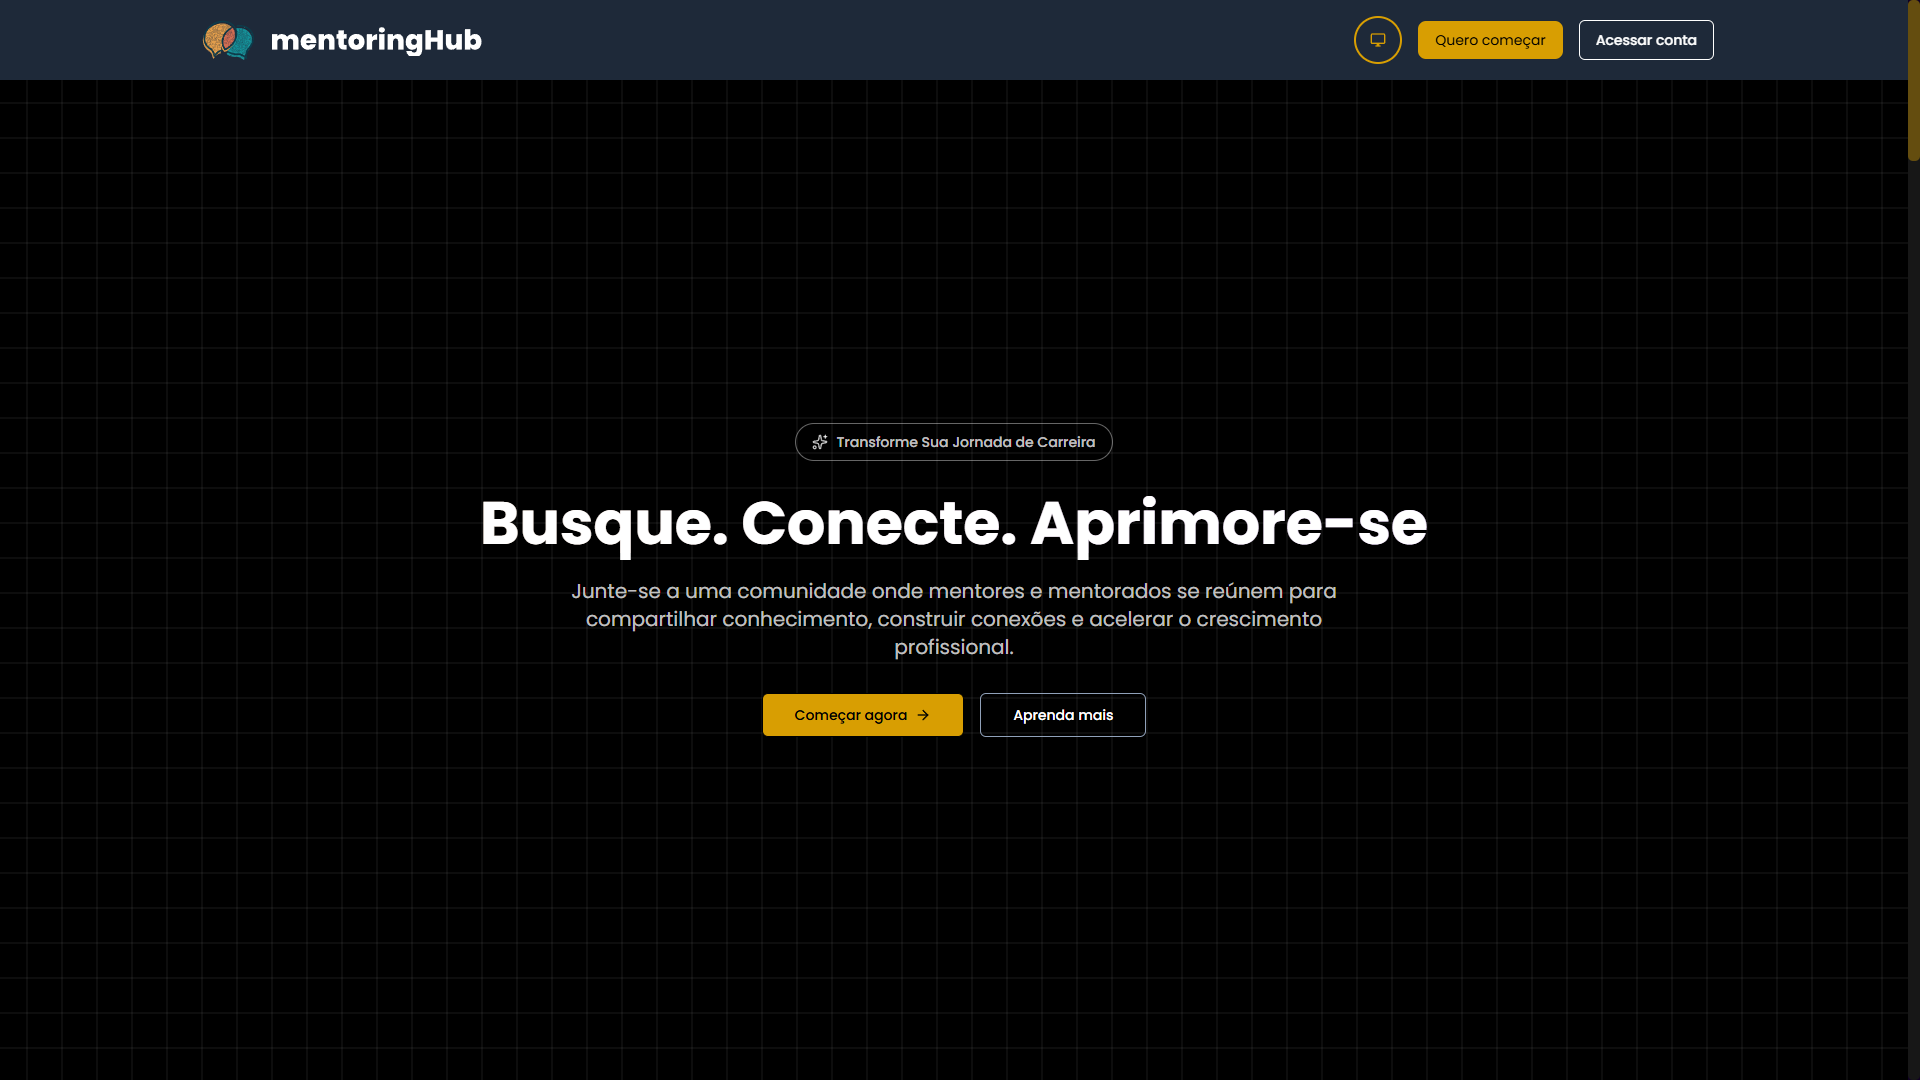
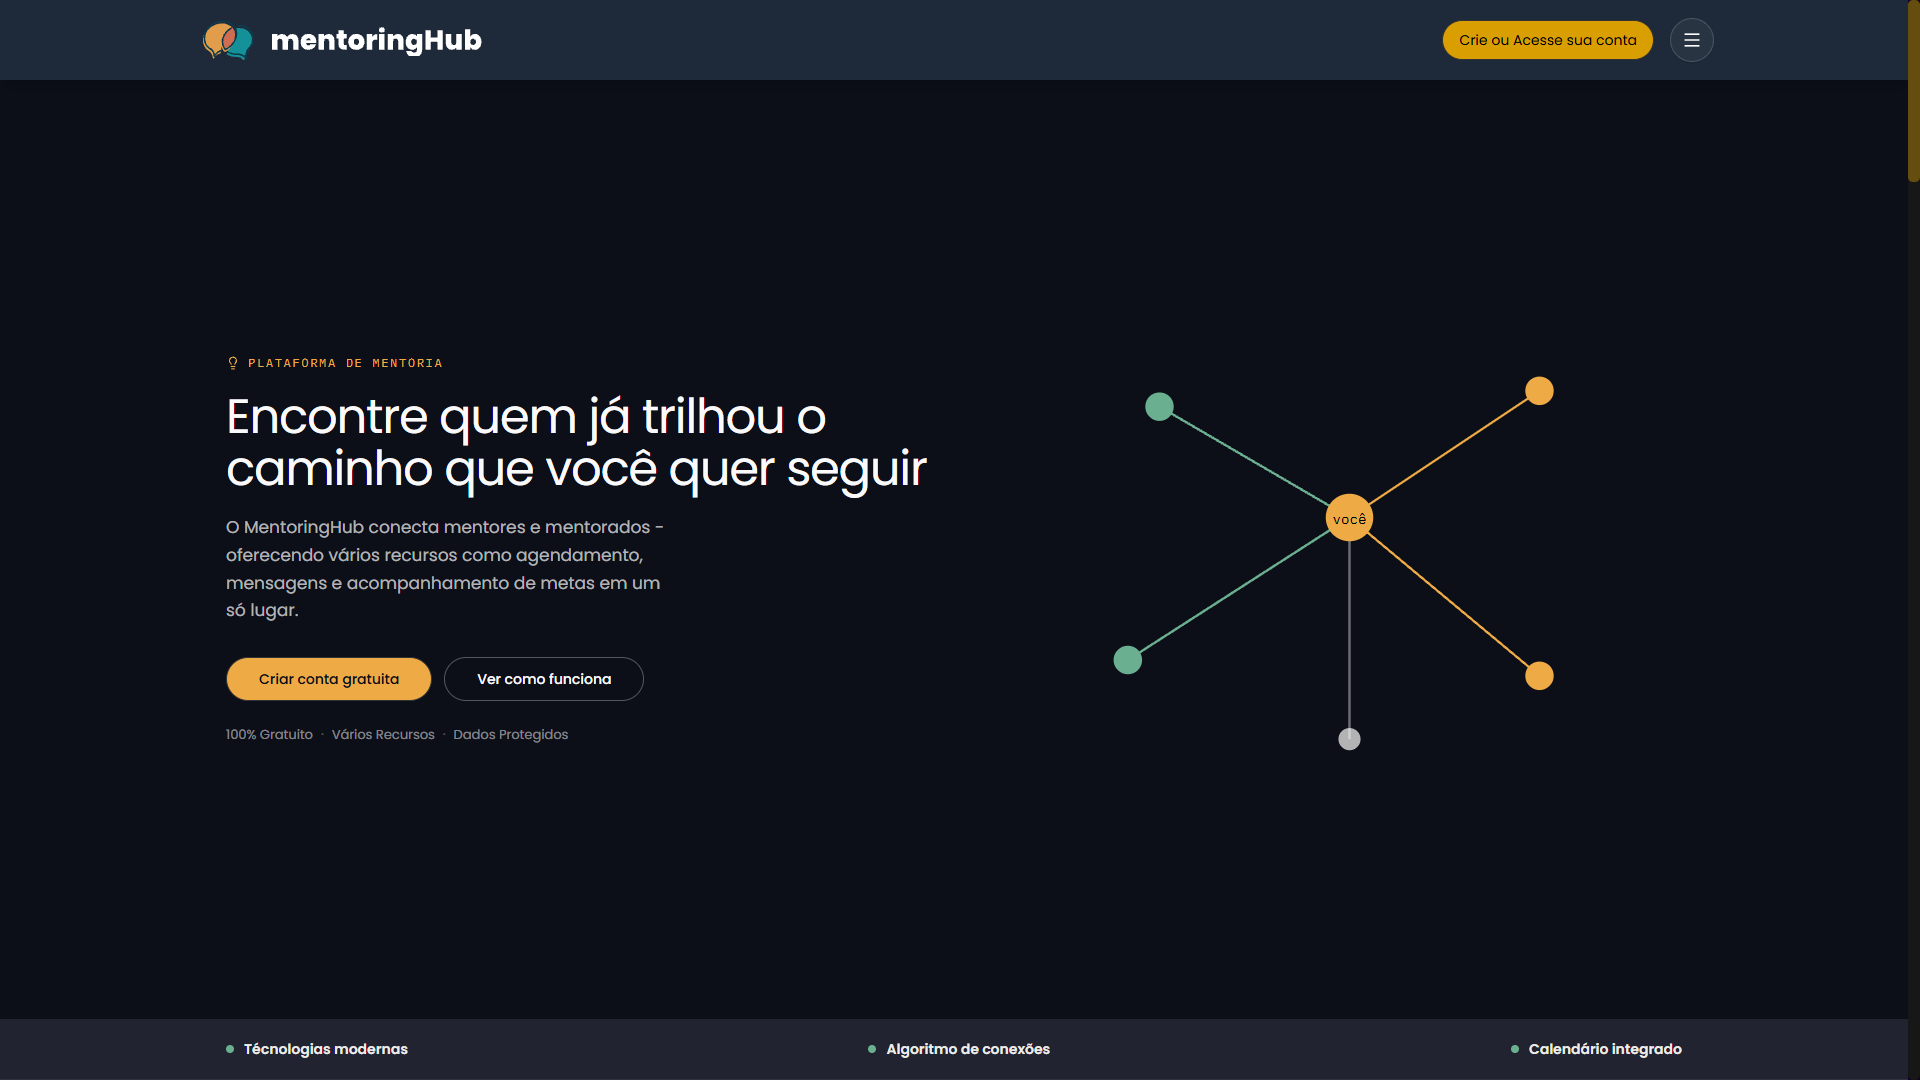
update: job status and experience

diff --git a/src/data/AboutPageList.ts b/src/data/AboutPageList.ts
@@ -67,8 +67,8 @@ export const WorkExperienceList = {
     },
     areas: [
       {
-        en: 'System Development',
-        pt: 'Desenvolvimento de Sistemas',
+        en: 'Systems Analysis and Development',
+        pt: 'Análise e Desenvolvimento de Sistemas',
       },
     ],
   },
@@ -426,6 +426,44 @@ export const WorkExperienceList = {
         {
           en: 'Creating test cases and performing tests to ensure the quality of the product',
           pt: 'Criar casos de teste e realizar testes para garantir a qualidade do produto',
+        },
+      ],
+    },
+    {
+      position: {
+        en: 'Systems Analyst and Developer',
+        pt: 'Analista de sistemas e Desenvolvedor',
+      },
+      company: {
+        en: 'Soluções UP',
+        pt: 'Soluções UP',
+      },
+      location: {
+        en: 'Boa Vista, Brazil',
+        pt: 'Boa Vista, Brasil',
+      },
+      period: {
+        en: 'August, 2026 - Current date',
+        pt: 'Agosto, 2026 - Data atual',
+      },
+      responsibilities: [
+        {
+          en: 'Develop systems for automation of processes',
+          pt: 'Desenvolver sistemas para automação de processos',
+        },
+        {
+          en: 'Understand the needs of the clients and propose solutions to meet their demands',
+          pt: 'Compreender as necessidades dos clientes e propor soluções para atender seus requisitos',
+        },
+      ],
+      experiences: [
+        {
+          en: 'Develop solutions for face recognition terminals through MQTT and RESTful APIs',
+          pt: 'Desenvolver soluções para terminais de reconhecimento facial através de MQTT e APIs RESTful',
+        },
+        {
+          en: 'Guarantee the quality and security of the systems developed through automated tests and code refactoring',
+          pt: 'Garantir a qualidade e segurança dos sistemas desenvolvidos por meio de testes automatizados e refatoração de código',
         },
       ],
     },

diff --git a/src/views/Home/ImageAndStatus.tsx b/src/views/Home/ImageAndStatus.tsx
@@ -4,11 +4,11 @@ type Props = {
   selectedLanguage: string
 }
 
-const status = true
+const status = false
 
 const statusText = {
-  en: 'Looking for new opportunities...',
-  pt: 'Buscando novas oportunidades...',
+  en: 'Not available for hire, but open to contributing to open-source projects',
+  pt: 'Não disponível para contratação, mas aberto a contribuir para projetos de código aberto',
 }
 
 function ImageAndStatus({ selectedLanguage }: Props) {

diff --git a/src/data/ProjectsList.tsx b/src/data/ProjectsList.tsx
@@ -63,7 +63,7 @@ export const ProjectsList = [
           'prisma orm',
           'next-auth',
         ],
-        demoLink: 'https://mentoringhub-network.vercel.app/',
+        demoLink: 'https://mentoringhub.com.br/',
         githubLink: '#',
       },
       {
